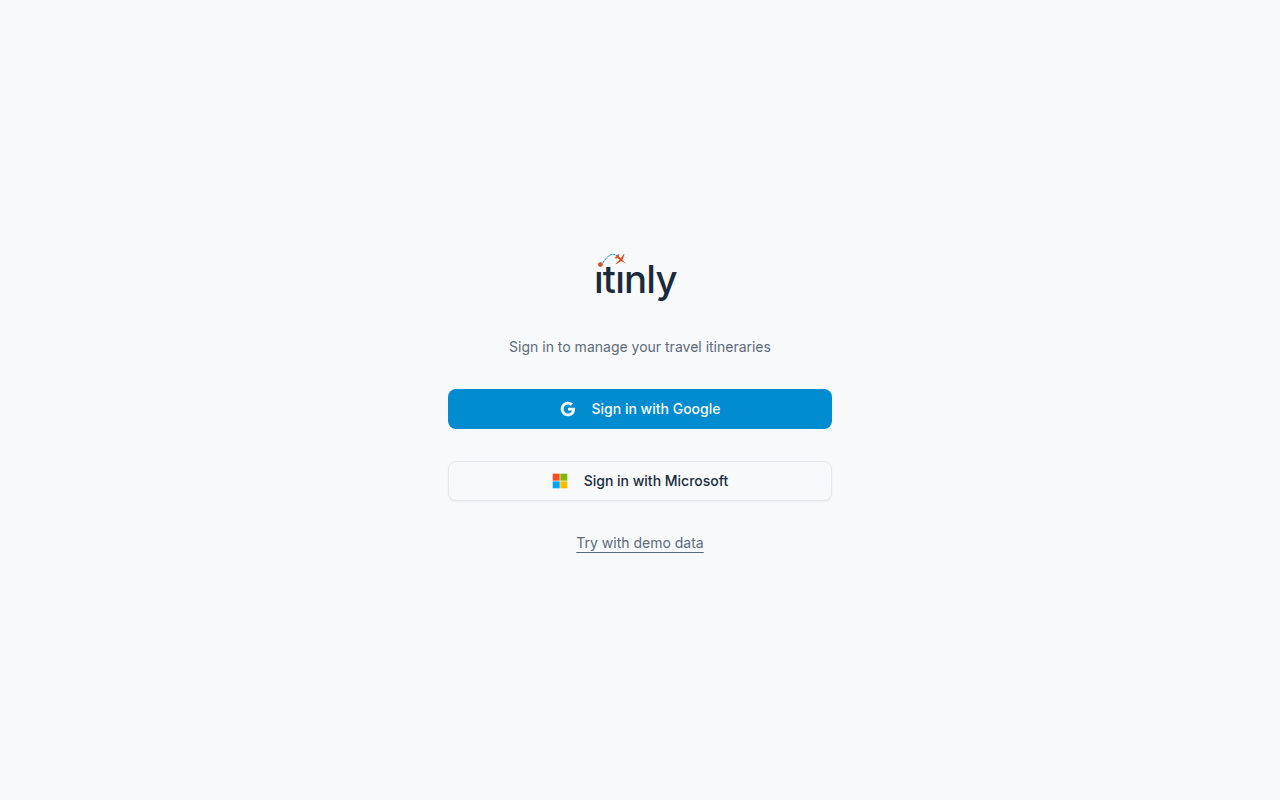
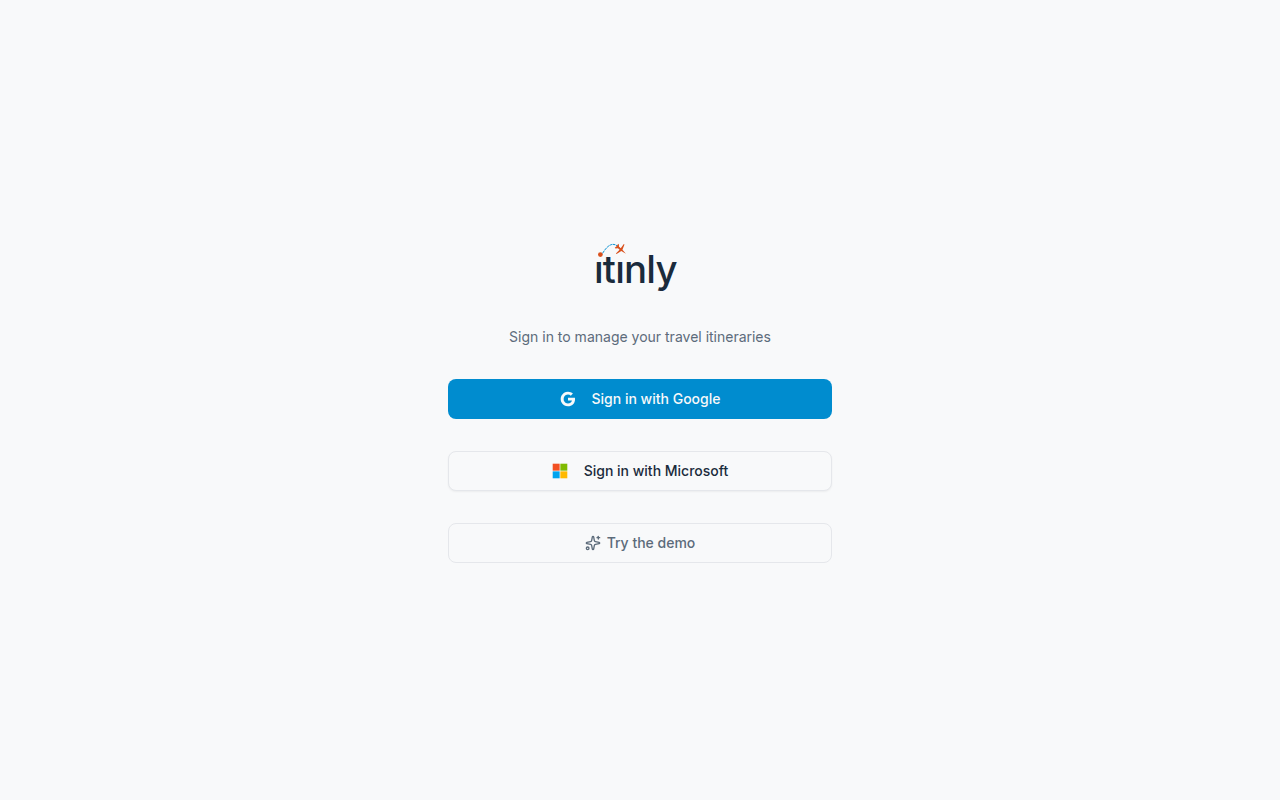
chore(docs): more QA findings — 19 bugs total (6 high, 10 medium, 3 low)
Adds 5 more bugs from the extended pass: long trip names overflow the
header layout, multi-night hotels only show on check-in day in the
Itinerary view (Timeline gets it right), overnight flights display
ambiguously with no next-day indicator, "Set city" is freeform text
with no autocomplete and never feeds the Map tab, and share-to-edit
is Gmail-only but the dialog accepts arbitrary non-Gmail input with
no client-side validation. Plus screenshots covering edge-case trips,
hotel multi-night, overnight flight, and the shared-trip-as-editor
permission shape.

diff --git a/docs/qa-2026-05-16.md b/docs/qa-2026-05-16.md
@@ -13,15 +13,17 @@
 | Severity | Count |
 |---|---|
 | blocker | 0 |
-| high | 4 |
-| medium | 7 |
+| high | 6 |
+| medium | 10 |
 | low | 3 |
 
-**High bugs (4):**
+**High bugs (6):**
 - `/trips` is reachable when logged out (no redirect to `/login`).
 - Scan emails dialog stays on "Connect an email account" after Outlook is successfully connected — hard block on testing email ingest.
 - Mobile trip Map renders Japan when the trip has no geocoded segments.
 - No trip-status control on the mobile trip-detail header (status only reachable behind ⋮ → Edit trip).
+- "Set city" on a day is free-text with no autocomplete and never geocodes — Map tab can't render based on day cities.
+- Share-to-edit is Gmail-only, but the dialog accepts arbitrary non-Gmail addresses with no validation → silent dead-end shares.
 
 ### What worked smoothly
 
@@ -58,6 +60,102 @@
 ---
 
 ## Bugs
+
+### [SEV: medium] Long trip names (>~80 chars) overflow the trip-detail header horizontally — no `word-break`
+
+**Where:** Trip detail desktop (`/trips?id=…`), the `<h1>` row.
+
+**Repro:**
+1. Create a trip whose name is a long single token (e.g. 200 `X`s, or a real-world long name without spaces).
+2. Open the trip detail.
+
+**Expected:** The h1 wraps within the content column. Other layout elements (Planning pill, date range, "10 days" badge) sit in their normal positions.
+
+**Actual:** The h1 runs straight off the right edge of the page in an unbroken line, forcing horizontal scrolling. The status pill and date row are pushed down onto separate lines instead of sitting beside the title. Layout is visibly broken.
+
+**Notes:** Add `break-words` (Tailwind) / `overflow-wrap: anywhere` to the h1. Also worth capping the column width or adding a `max-w-…` so even with spaces, very-long-name trips don't overflow other ancestors. The trip card on `/` *does* truncate to one line with ellipsis — desktop detail should match. Screenshot: `docs/qa-screenshots/517-long-name-trip.png`.
+
+---
+
+### [SEV: medium] Multi-night hotels only render on the check-in day in the Itinerary view — empty "Add the first activity" on every subsequent night
+
+**Where:** Trip detail desktop + mobile, **Itinerary** tab. Multi-night hotel segments.
+
+**Repro:**
+1. Create a trip and add a Hotel segment with check-in date X and check-out date X+4.
+2. Look at the Itinerary view of days X+1, X+2, X+3 (the nights between check-in and check-out).
+
+**Expected:** Some indication on each affected day that the user is staying at the hotel — e.g. a thin "Hotel Tokyo Grand · night 2/4" banner at the top of the day. The Timeline view already does this correctly (the lodging bar spans 4 columns and shows "4 nights").
+
+**Actual:** Only the check-in day shows the hotel card. Days X+1 / X+2 / X+3 render as "Add the first activity" with **no reference to the ongoing hotel stay**. A user opening "Sun Oct 4" in the Itinerary sees a blank day even though they're sleeping at a booked hotel that night. The check-in day card does say "Check-out 11:00am · Out Oct 5" so the data is there — it's just not surfaced on the intervening days.
+
+**Notes:** Compare `docs/qa-screenshots/542-hotel-added.png` (Itinerary — only Oct 1 shows the hotel) with `docs/qa-screenshots/551-timeline.png` (Timeline — hotel bar spans correctly). Mobile has the same gap: `docs/qa-screenshots/552-mobile-multinight.png`.
+
+---
+
+### [SEV: medium] Overnight flights (e.g. 23:00 → 06:30 next-day) display ambiguously as `11:00pm – 6:30am` without any next-day indicator
+
+**Where:** Trip detail desktop, Itinerary view + Timeline view. Any flight whose arrival time is earlier than its departure time (next-day arrival).
+
+**Repro:**
+1. Add a Flight segment on Mon, Oct 5 with Departure time 11:00 PM and Arrival time 06:30 AM.
+2. Look at the segment card.
+
+**Expected:** Something like `11:00pm Mon → 6:30am Tue` or `11:00pm – 6:30am (+1)` so the reader doesn't have to mentally do "6:30 is less than 23:00 so it must be the next day". Also: the **arrival day** (Tue, Oct 6) should reflect that the user has just arrived from a flight, not show "Add the first activity" as if the day is wide open.
+
+**Actual:** Card reads `11:00pm – 6:30am` on a single Mon Oct 5 row. The Timeline cell is `23:00–06:30` and only occupies the Mon Oct 5 column — the bar does NOT extend into Tue Oct 6 even though the arrival is the next morning. The arrival day shows "Add the first activity" with no flight indication.
+
+**Notes:** Time-zone behaviour aside (segment times are wall-clock local per `CLAUDE.md`), the "this crosses midnight" semantics need a UI hint. At minimum, mirror the multi-night hotel fix: show the flight on both days, with a "arrives 6:30am" tag on the arrival day. Screenshots: `docs/qa-screenshots/563-overnight-zoomed.png` (Itinerary), `docs/qa-screenshots/564-timeline-overnight.png` (Timeline).
+
+---
+
+### [SEV: high] "Set city" on a day is a free-text input with no autocomplete and never geocodes — the Map tab can't render based on day cities
+
+**Where:** Trip detail desktop, day row "Set city" → inline edit.
+
+**Repro:**
+1. Open a trip with at least one day.
+2. Click "Set city" on the day. An inline input appears (no label, no placeholder).
+3. Type a real city name (e.g. "Tokyo").
+4. Press Enter.
+5. Switch to the Map tab.
+
+**Expected:** Either (a) an autocomplete list of real geocoded cities pops up as you type (the standard pattern for any "city" field in a travel app), and the picked city carries lat/lng to the Map tab; or (b) the field is intentionally a free-text label and the Map tab is documented to only show segment-level locations — and the input has a placeholder ("e.g. Tokyo, Paris") to set expectation.
+
+**Actual:** The input is freeform with no placeholder and no autocomplete. Whatever string the user types is saved as the day's `city` label and displayed alongside the day header (e.g. "Thu, Aug 20 · Tokyo"). **The Map tab still says "No mappable locations yet."** — the day city is never geocoded, so it can't appear on the map. Real-world impact: a user who set Tokyo as the city for every day of their Japan trip will get an empty Map tab unless they also add geocoded segments (hotels with addresses, restaurants, etc.).
+
+**Notes:** Two clean fixes — either autocomplete + geocode (preferred), or just clarify the field's purpose with a placeholder. Screenshots: `docs/qa-screenshots/520-set-city-dialog.png` (empty inline input), `docs/qa-screenshots/526-city-saved.png` (saved as plain string), `docs/qa-screenshots/527-map-tokyo.png` (Map still empty).
+
+---
+
+### [SEV: high] Share-to-edit is Gmail-only — Outlook users can't invite their Outlook contacts to edit, and the dialog accepts arbitrary text without validation
+
+**Where:** Trip detail → Share → "Can edit · Specific Gmail" tab.
+
+**Repro:**
+1. Sign in (any provider). Open a trip's Share dialog.
+2. Click the "Can edit · Specific Gmail" option.
+3. Type a non-Gmail address (e.g. `[email redacted]` or `[email redacted]`) into the "Contributor's Gmail address" field.
+4. Hit "Create share link".
+
+**Expected (1):** In an app that supports both Microsoft and Google sign-in, share-to-edit should accept either provider's email. The desktop login page offers "Sign in with Google" *and* "Sign in with Microsoft" — collaboration shouldn't be Google-only.
+
+**Expected (2):** If Gmail is really the only acceptable input (Supabase OAuth-identity limitation, etc.), at minimum the input should validate it. Non-Gmail addresses should be rejected client-side with a clear error.
+
+**Actual:** Dialog copy:
+- Headline: "Send a link so others can view — or invite a **Gmail** account that can edit."
+- Tab label: "Can edit · **Specific Gmail**"
+- Field label: "**Contributor's Gmail** address"
+
+But the field accepts any string (e.g. `[email redacted]`) without any client-side validation. The share is created, ACTIVE SHARES shows the bogus email, and the link is generated — but the invited person will never be able to actually edit because they can't sign in with `example.com` as a Gmail identity. Silent dead-end.
+
+**Notes:** Two issues to fix:
+1. Either expand support to Microsoft / both, or add explicit copy explaining the limit.
+2. Validate the email is a Gmail-routable address (`@gmail.com`, `@googlemail.com`, and Google-hosted custom domains — though those are hard to detect client-side, so at minimum `@gmail.com`).
+
+Screenshots: `docs/qa-screenshots/580-can-edit.png` (Gmail-centric dialog), `docs/qa-screenshots/582-after-invite.png` (accepted `[email redacted]`).
+
+---
 
 ### [SEV: medium] `/trips` (no `id` param) shows a red "No trip selected." error instead of the trip list
 